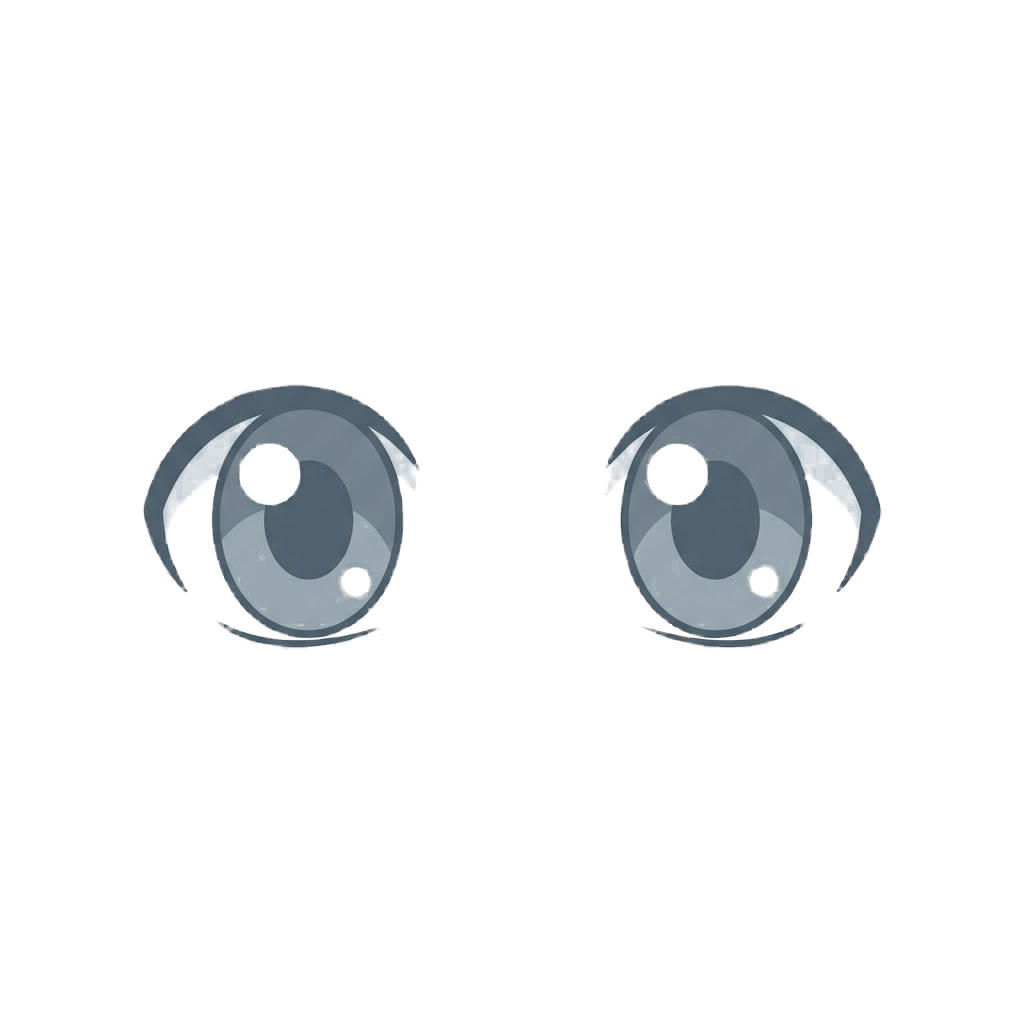
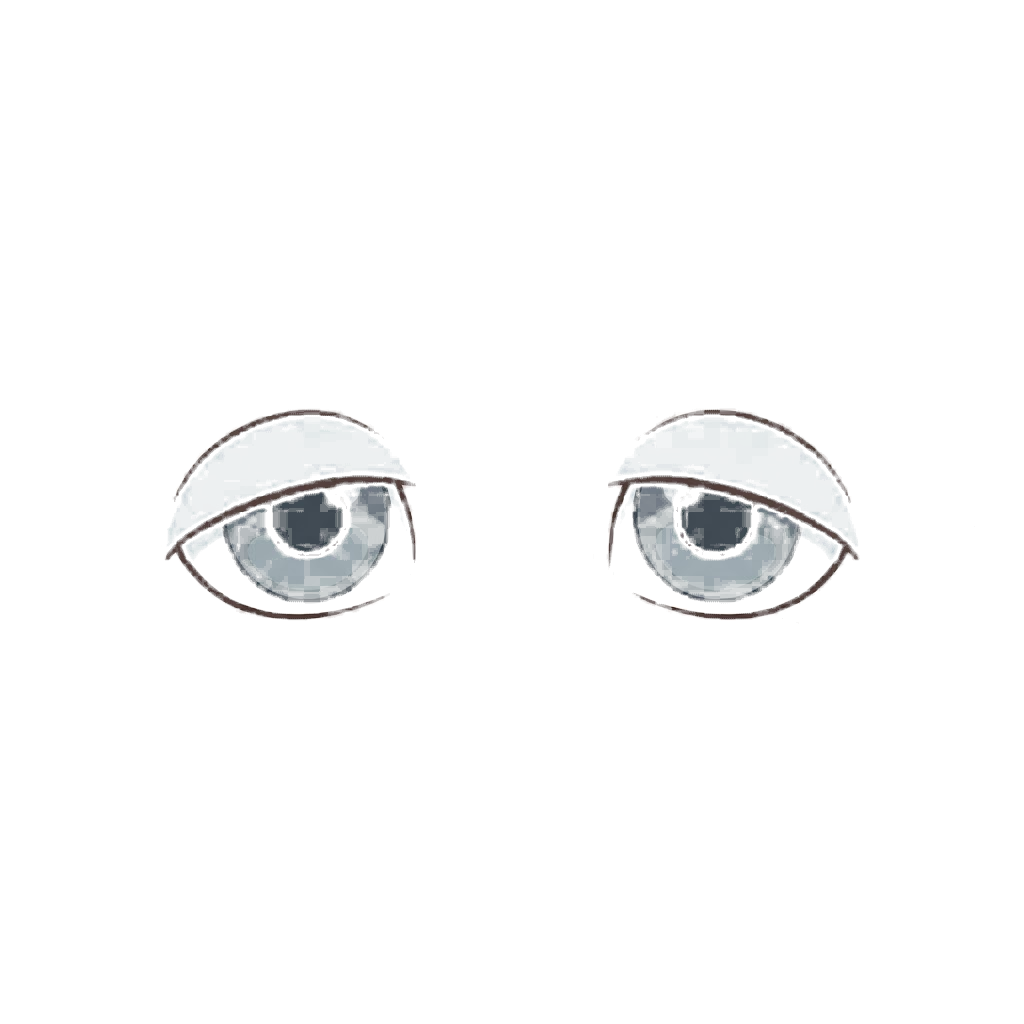
顔パーツ画像20点を追加、透明復元ツールをチェッカー色の自動検出に改良
hair_female(5)・hair_male(5)・eyes(4)・eyebrows(3)・mouth(3)の計20パーツを
プロンプト順に受け取り、透明PNG化して配置した。

dechecker.pyは固定しきい値だったため、画像によってチェッカーの色味が
若干暖色寄りになるケースで背景が十分に透明化されない不具合があった
（eyebrows/thick, mouth/neutral, mouth/smirkで発生、透過率45〜49%と
明らかに低かった）。各画像の縁を自動サンプリングしてチェッカー色の
しきい値を動的に決める方式に変更し、全点で90%以上の透過率を確認した。

Claude-Session: https://claude.ai/code/session_01QosCxFZWeoEaWTxfNJeEr5

Changed region(s): [[0.5938, 0.375, 0.875, 0.6562], [0.125, 0.375, 0.4062, 0.6562]]

diff --git a/scripts/dechecker.py b/scripts/dechecker.py
@@ -2,28 +2,47 @@
 市松模様(透明表示用のチェッカーパターン)がJPEG化で焼き込まれた画像から、
 本来の透明度(アルファチャンネル)を復元する。
 チェッカーは無彩色(R≈G≈B)なので、彩度(色味)の無いピクセルを透明化する。
+チェッカーの明るさ・色味は画像ごとに微妙に違う(ほぼ無彩色だが、わずかに
+暖色寄りの場合がある)ため、各画像の縁(背景だけが写っているはず)を
+サンプリングして、しきい値を自動調整する。
 """
 import sys
 from PIL import Image
 import numpy as np
 
 
-def dechecker(in_path, out_path, low=6, high=22):
-    im = Image.open(in_path).convert("RGB")
-    arr = np.array(im).astype(np.int16)
-    r, g, b = arr[..., 0], arr[..., 1], arr[..., 2]
+def _chroma(arr):
+    r, g, b = arr[..., 0].astype(np.int16), arr[..., 1].astype(np.int16), arr[..., 2].astype(np.int16)
     mx = np.maximum(np.maximum(r, g), b)
     mn = np.minimum(np.minimum(r, g), b)
-    chroma = (mx - mn).astype(np.float32)
+    return (mx - mn).astype(np.float32)
+
+
+def dechecker(in_path, out_path, margin_ratio=0.04, low_pad=2.0, feather=12.0):
+    im = Image.open(in_path).convert("RGB")
+    arr = np.array(im)
+    h, w = arr.shape[:2]
+    chroma = _chroma(arr)
+
+    # 縁(背景のみのはずの領域)をサンプリングして、このチェッカーの最大彩度を調べる
+    m = max(2, int(min(h, w) * margin_ratio))
+    border = np.concatenate([
+        chroma[:m, :].ravel(), chroma[-m:, :].ravel(),
+        chroma[:, :m].ravel(), chroma[:, -m:].ravel(),
+    ])
+    checker_max = float(np.percentile(border, 99.5))
+
+    low = checker_max + low_pad
+    high = low + feather
 
     alpha = np.clip((chroma - low) / (high - low), 0.0, 1.0) * 255.0
     alpha = alpha.astype(np.uint8)
 
-    rgba = np.dstack([arr.astype(np.uint8), alpha])
+    rgba = np.dstack([arr, alpha])
     out = Image.fromarray(rgba, mode="RGBA")
     out.save(out_path)
     transparent_ratio = (alpha < 10).mean()
-    print(f"{in_path} -> {out_path}  (transparent pixels: {transparent_ratio:.1%})")
+    print(f"{in_path} -> {out_path}  (checker_max={checker_max:.1f} low={low:.1f} high={high:.1f} transparent={transparent_ratio:.1%})")
 
 
 if __name__ == "__main__":
